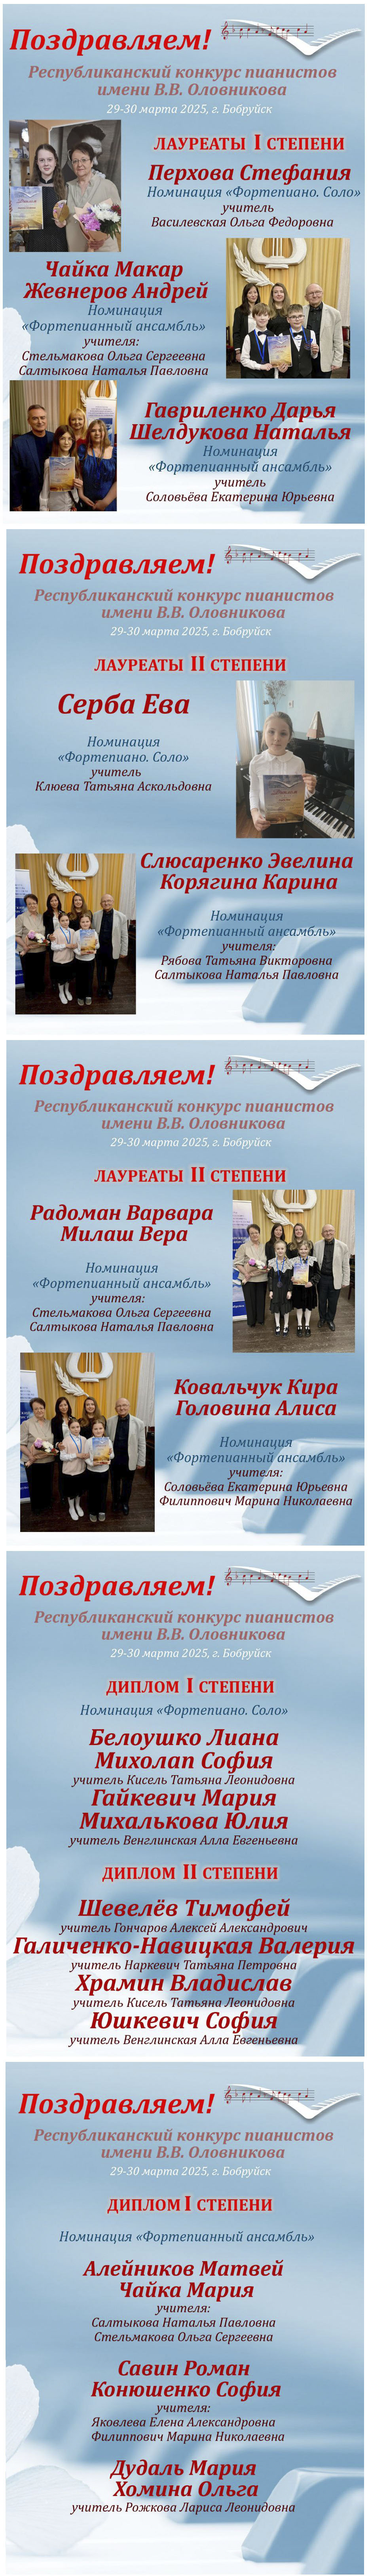
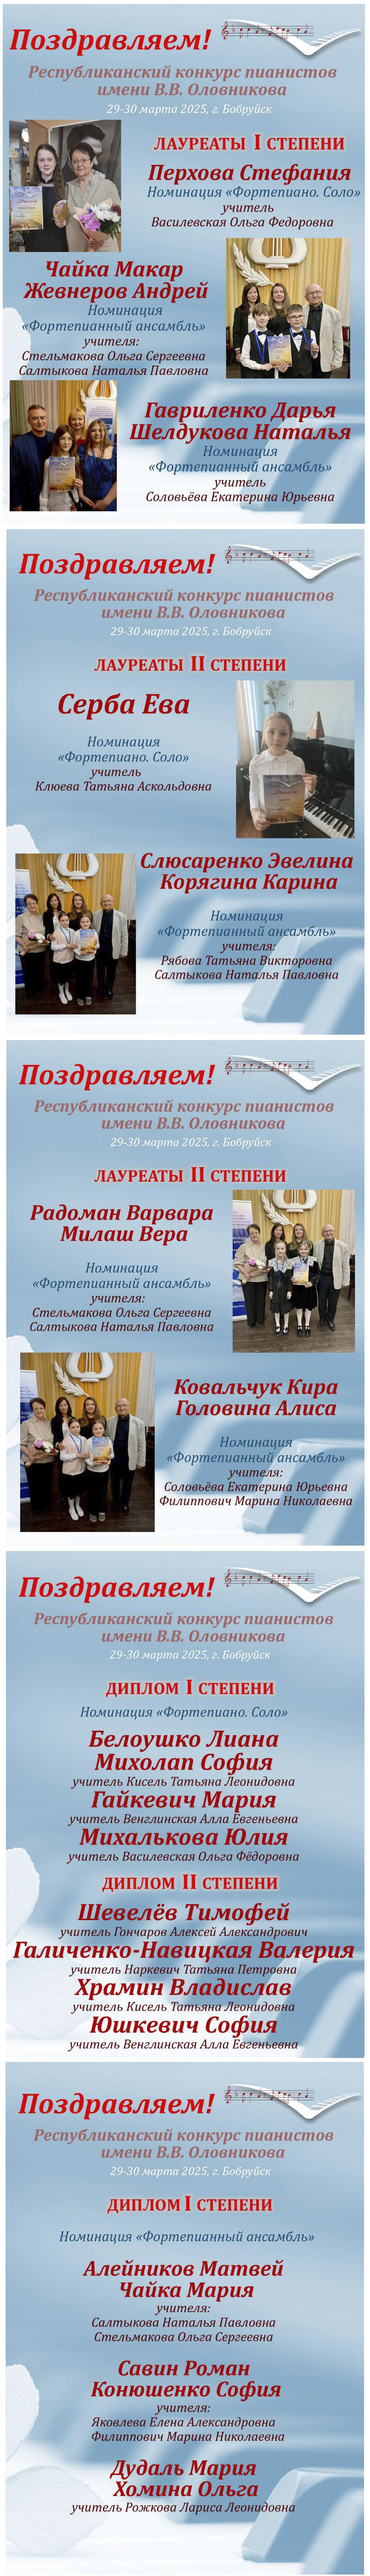
исправила оловникова - победители, в поздравления 2 файла - вокалисты и труба

Changed region(s): [[0.031, 0.593, 0.9615, 0.8115], [0.062, 0.593, 0.1241, 0.6242]]

diff --git a/pozdr/pozdr.htm b/pozdr/pozdr.htm
@@ -44,6 +44,16 @@
      
 -->  
           <p>
+            <a href="omega_fest_25.jpg">
+              <img src="omega_fest_25.jpg" width="60%" />
+            <a/>
+          </p>
+          <p>
+            <a href="soldatov_tr_25.jpg">
+              <img src="soldatov_tr_25.jpg" width="60%" />
+            <a/>
+          </p>
+          <p>
             <a href="pobedit_ol_25.jpg">
               <img src="pobedit_ol_25.jpg" width="60%" />
             <a/>
